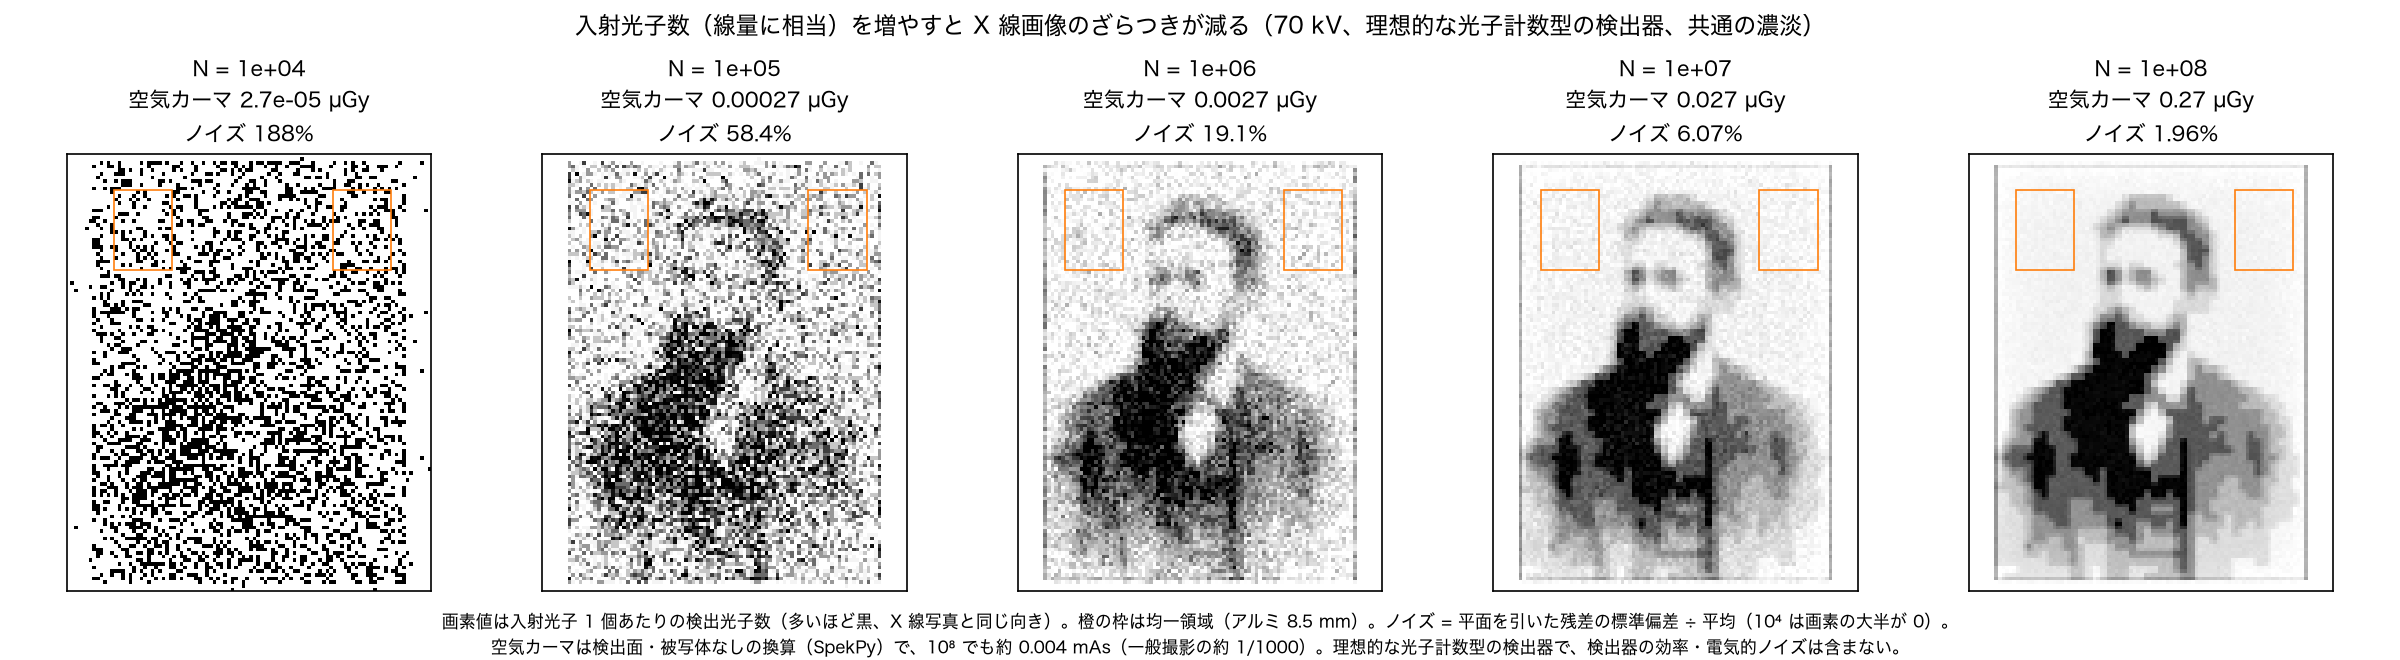
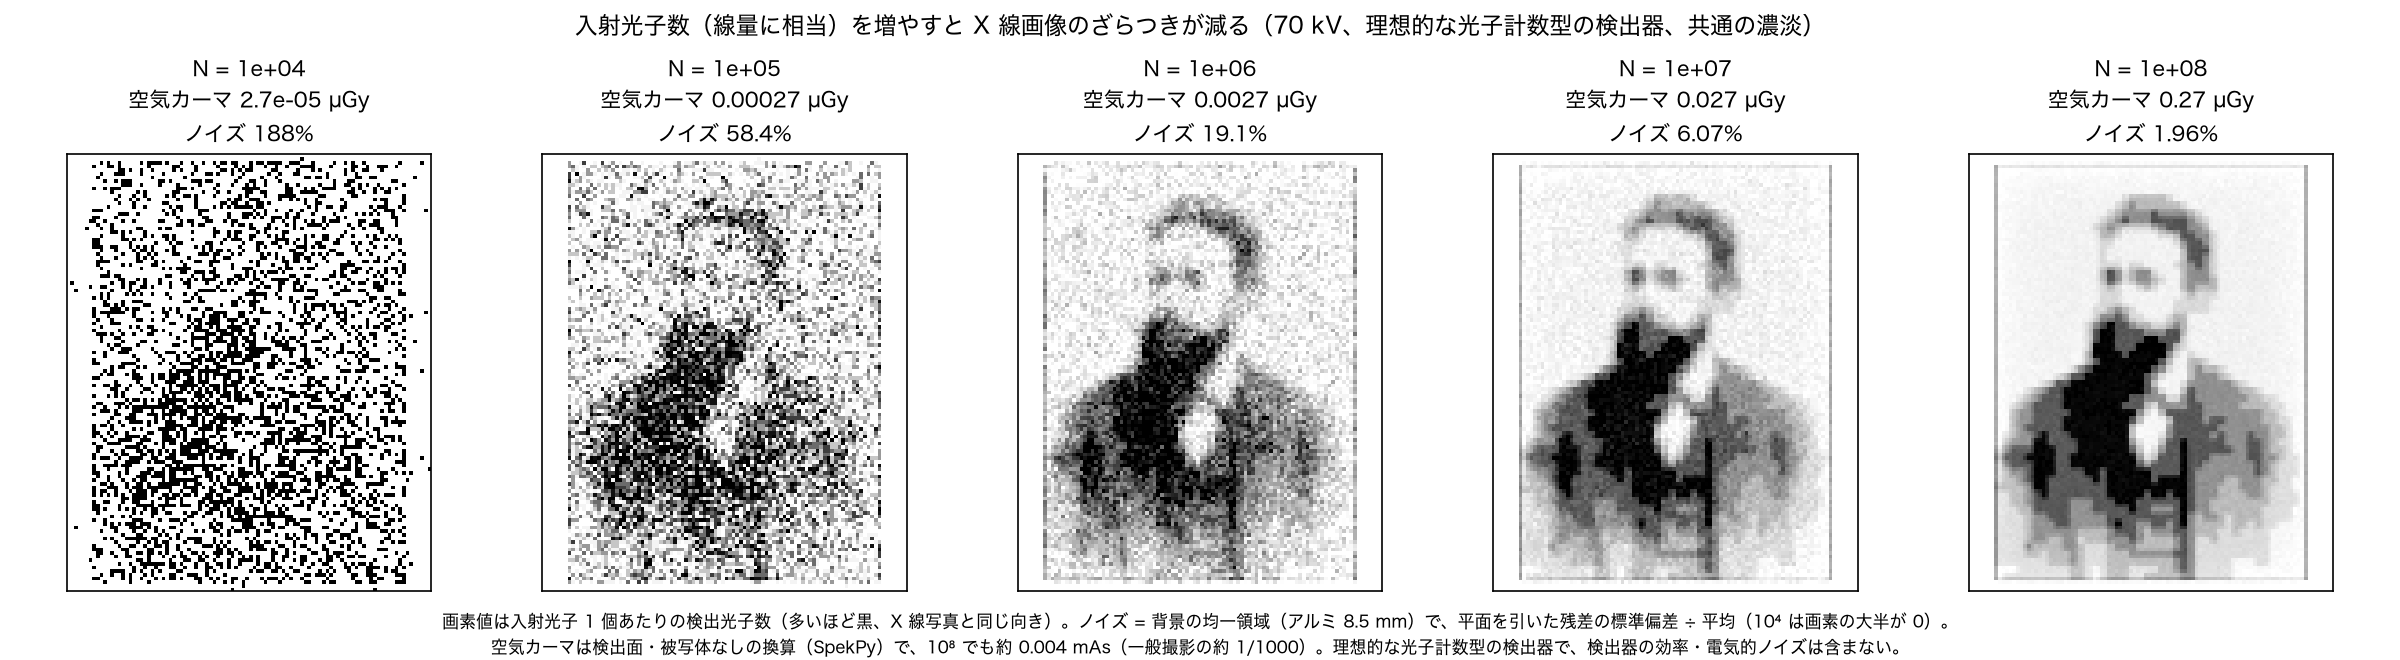
公開ページを第 5・6 版まで反映: 依頼 2 を対話の入口版に差し替え（抄録 9→5 段階、状況の文、依頼 2 の行、図 1）、図 1 は均一領域の橙の枠を消した版（使用者の指示）。Codex の報告書 v5・v6 と依頼文 v6 を追加。教訓（Sites の公開は非対話の codex exec では承認できず、対話型で行う）

diff --git a/docs/jsmp133/request_2_entry/make_frames.py b/docs/jsmp133/request_2_entry/make_frames.py
@@ -70,12 +70,9 @@ def main():
         ax.imshow(img.T, origin='lower', cmap='gray_r', vmin=vmin, vmax=vmax, aspect='equal')
         ax.set_title(f'N = {n:.0e}\n空気カーマ {row["air_kerma_uGy"]:.2g} µGy\nノイズ {100 * row["cv_plane"]:.3g}%', fontsize=10)
         ax.set_xticks([]); ax.set_yticks([])
-        for su, sv in ROIS:
-            ax.add_patch(plt.Rectangle((su.start - .5, sv.start - .5), su.stop - su.start, sv.stop - sv.start,
-                                       fill=False, ec='tab:orange', lw=.8))
     fig.suptitle('入射光子数（線量に相当）を増やすと X 線画像のざらつきが減る（70 kV、理想的な光子計数型の検出器、共通の濃淡）', fontsize=11)
-    fig.text(.5, .01, '画素値は入射光子 1 個あたりの検出光子数（多いほど黒、X 線写真と同じ向き）。橙の枠は均一領域（アルミ 8.5 mm）。'
-             'ノイズ = 平面を引いた残差の標準偏差 ÷ 平均（10⁴ は画素の大半が 0）。\n'
+    fig.text(.5, .01, '画素値は入射光子 1 個あたりの検出光子数（多いほど黒、X 線写真と同じ向き）。'
+             'ノイズ = 背景の均一領域（アルミ 8.5 mm）で、平面を引いた残差の標準偏差 ÷ 平均（10⁴ は画素の大半が 0）。\n'
              '空気カーマは検出面・被写体なしの換算（SpekPy）で、10⁸ でも約 0.004 mAs（一般撮影の約 1/1000）。'
              '理想的な光子計数型の検出器で、検出器の効率・電気的ノイズは含まない。', ha='center', fontsize=8)
     fig.tight_layout(rect=(0, .07, 1, .93))

diff --git a/docs/jsmp133/page_update_report_v5.md b/docs/jsmp133/page_update_report_v5.md
@@ -1,0 +1,87 @@
+# 公開ページ更新報告（第5版）
+
+対象：https://chatcarlo-jsmp133-abstract-review.ayumu-raku.chatgpt.site
+
+## 変更前 → 変更後
+
+### 修正A：抄録案（v3）Methods
+
+**変更前**
+
+X 線画像では 10⁴ から 10⁸ まで 9 段階で変えた。
+
+**変更後**
+
+X 線画像では 10⁴ から 10⁸ まで 5 段階で変えた。
+
+### 修正B：5章の「状況：」の囲み
+
+**変更前**
+
+依頼 1（4 MV）と依頼 3 は、対話の入口から実際に通した記録のある結果です。依頼 2（X 線画像のコマ送り動画）は専用のスクリプトで計算した結果で、対話の入口は通していません。
+
+**変更後**
+
+依頼 1〜3 はいずれも、対話の入口から実際に通した記録のある結果です（依頼 2 の X 線画像は 2026-10-24 に入口から計算し直しました）。
+
+### 修正C：「(2) 性質の異なる依頼」の表・依頼2の内容
+
+**変更前**
+
+X 線撮影で線量を増やすとばらつき（ノイズ）が減ることの再現。肖像のアルミ凹凸板の X 線画像（70 kV）で、入射光子数（＝線量に相当）を 10⁴→10⁸ へ増やすと、画像のばらつき（相対誤差）は 199%→1.9% に減り、光子数の平方根に反比例して減るという理論（傾き −0.5）と一致した（実測 −0.501±0.004）
+
+**変更後**
+
+X 線撮影で線量を増やすとばらつき（ノイズ）が減ることの再現。肖像のアルミ凹凸板の X 線画像（70 kV）で、対話で条件を設定し、入射光子数（＝線量に相当）を 10⁴→10⁸ へ 5 段階で増やした画像を Colab の GPU で計算した。画像のばらつき（均一領域のノイズ）は 188%→1.96% に減り、光子数の平方根に反比例して減るという理論（傾き −0.5）と一致した（実測 −0.495）。検出器は理想的な光子計数型（効率・電気的ノイズは含まない）で、10⁸ 個でも約 0.004 mAs 相当
+
+### 修正D：依頼2の図1の説明文
+
+**変更前**
+
+図 1　依頼 2：入射光子数 N（線量に相当）を 10⁴ から 10⁸ に増やすと、ばらつきが減って像が鮮明になる
+
+**変更後**
+
+図 1　依頼 2：入射光子数 N（線量に相当）を 10⁴ から 10⁸ に増やすと、ばらつきが減って像が鮮明になる（対話の入口から計算した 5 段階、各コマの上はノイズと空気カーマ）
+
+### 修正D：依頼2の図1
+
+旧JPEG埋め込み画像 → `docs/jsmp133/request_2_entry/frames_common_scale.png` を、PNGのままdata URLに埋め込み。添付の画像データは加工していない。画像のalt、既存スタイル、図の配置は変更なし。
+
[1 lines of base64/hex data omitted]
+
+## 変更せずに残した食い違い・注意
+
+- 更新後HTMLの本文に、依頼2についての「専用のスクリプト」「対話の入口は通していません」「9 段階」「コマ送りの動画」は残っていない。「コマ送り」もHTMLソース全文で残存なし。
+- 修正Cの変更前は、既存の太字タグを除いた本文が依頼文と完全一致したため実施。太字の範囲は維持。「状況」欄の「確認済み」は変更なし。
+- 「依頼 2 のねらい：」の囲みは変更なし。添付 `replacement_results_v4.html` は状況文の一致確認に使用しただけで、断片全体の差し替えはしていない。
+- 再開後にリモート最新ソースを取得し、変更前HEADが前回最終版と同じ `badf57dfe6a3a6bafa3cd7643d4cd14b885f8034` であることを確認。A〜Dだけの差分を再検証済み。以下の残存確認は更新HTMLに対するもので、公開ページへの反映はまだ完了していない。
+
+## 検証
+
+- 作業元：Sitesソースリポジトリ `/private/tmp/jsmp133-site-v4`。変更前HEADは `badf57dfe6a3a6bafa3cd7643d4cd14b885f8034`（第4版報告末尾のSites version 10と一致）。開始時の作業ツリーに変更なし。
+- A〜Dの新旧文は依頼文から直接抽出し、句読点・空白・数値を保持。対象の旧文がそれぞれ1か所だけ存在することを確認。
+- すべての変更（図1の画像を含む）を逆適用すると、変更前HTMLを完全に再現。変更範囲は `content/review.html` のみ。
+- 両感想フォーム、送信を含む全script、全iframe（3D表示）、全style、既存SVGは変更前と完全一致。フォームのAPI、DB binding、スキーマ、マイグレーション、認証、保存処理のソースは変更なし。回答の削除・移行・テスト送信は実施していない。
+- PNG埋め込みを復号したバイト列は添付ファイルと完全一致。添付画像の5段階、共通濃淡、ノイズと空気カーマの表示を目視確認。
+- Sites公式 `build-site.mjs` によるビルド成功（/、/api/feedback、/responses）。
+- 公開URLからHTMLを取得して確認したところ、Aの「9 段階」、Bの「専用のスクリプト」、Cの「199%→1.9%」が残り、A〜Dの新しい文は未反映。ブラウザ上の表示確認・公開成功後の確認は未実施。
[1 lines of base64/hex data omitted]
+
+## 公開結果
+
+### 2026-10-24 version 11 公開完了
+
+- 指定の保存済み **Sites version 11** をそのまま公開。ソース変更、再保存、ソースのcommit・pushは実施していない。保存版ID：`appgprj_6ada854f7c388191b7f4ae3247b0071e~appgver_04a518c51b608191a523369ebd02846c`。公開後の再照会でも version 11、commit `db7ac356047f03bb7b6fb9713fee91a3a145b48d` を確認。
+- **公開ID：`appgdep_6adca9d076d4819188cca1a0458e485a`**。公開ツールの結果は `type: publish`、`status: succeeded`、`failure_message: null`。完了時刻は 2026-10-24 21:51:45 JST。
+- 公開URL：<https://chatcarlo-jsmp133-abstract-review.ayumu-raku.chatgpt.site>（変更なし）。公開範囲は `public`、アクセス方針revisionは2で、公開前後のアクセス方針全体が一致。
+- 公開後のHTTP取得とブラウザの表示で、A〜Dの反映を確認。HTTP取得した本文では、本報告の各「変更後」4文が全文一致した。
+  - A：Methods の「10⁴ から 10⁸ まで 5 段階で変えた」を確認。
+  - B：「依頼 1〜3 はいずれも、対話の入口から実際に通した記録のある結果です」と、依頼2を2026-10-24に計算し直した旨を確認。
+  - C：依頼2の行に、対話による条件設定、Colab GPU、5段階、188%→1.96%、実測 −0.495、理想的な光子計数型、約0.004 mAs相当が反映。「確認済み」も維持。
[1 lines of base64/hex data omitted]
+- 公開HTMLに旧「9 段階」「専用のスクリプト」「対話の入口は通していません」「199%→1.9%」「コマ送り」が残っていないことを確認。
[1 lines of base64/hex data omitted]
+- viveMonteリポジトリでは本報告への追記のみ行い、commit・pushは実施していない。
+
+- その後、第6版で図1の画像だけを差し替え、version 12を公開。version 11公開時の確認結果は上記のとおり。最新の公開結果は `docs/jsmp133/page_update_report_v6.md` を参照。

diff --git a/docs/jsmp133/page_update_report_v6.md b/docs/jsmp133/page_update_report_v6.md
@@ -1,0 +1,31 @@
+# 公開ページ更新報告（第6版）
+
+対象：<https://chatcarlo-jsmp133-abstract-review.ayumu-raku.chatgpt.site>
+
+## 変更前 → 変更後
+
+補足資料「依頼2のねらい」の後の図1の画像だけを差し替えた。
+
[2 lines of base64/hex data omitted]
+
+## 検証
+
+- Sites公式ソースヘルパーでリモート最新を取得。開始時HEADはversion 11の `db7ac356047f03bb7b6fb9713fee91a3a145b48d`。開始時・commit後の作業ツリーはクリーン。
+- Sitesソースの変更ファイルは `content/review.html` だけ。対象imgのsrcを1か所だけ置換。新data URLを旧data URLに戻すと、変更前HTMLとバイト単位で完全一致することを確認。
+- 図の説明文・alt・style・配置、ほかの文章・数値・図・3D表示・デザイン・構成・両感想フォーム・送信処理は変更なし。DB binding、API、認証、スキーマ、マイグレーションも変更なし。フォーム送信、保存済み回答の読み書き・削除・移行は実施していない。
+- Sites公式 `build-site.mjs` によるビルド成功（/、/api/feedback、/responses）。公式ヘルパーでSitesソースだけcommit・pushし、同じcommitから公開用アーカイブを作成した。
+- 公開成功後、公開URLからHTTP取得したHTMLの対象img（alt「入射光子数による画像の変化」）を抽出。PNG data URLの復号結果は、指定PNGと206,927バイトすべて一致。上記SHA-256も一致。
+- ブラウザを再読み込みし、橙の矩形がない5段階の図1と、従来の説明文が表示されることを確認。
+- 公開前後のURLとアクセス方針全体が一致。公開範囲 `public`、revision 2を維持。
+
+## 公開結果
+
+- **Sites version 12、公開成功**（`status: succeeded`、`type: publish`、`failure_message: null`）。
+- 保存版ID：`appgprj_6ada854f7c388191b7f4ae3247b0071e~appgver_8343d49e942881919f661ce0fecbbe74`
+- Sitesソースcommit：`9149fa5fc098aa953f8ba6eed874557a4e2638cc`
+- 公開ID：`appgdep_6adcac18860081919ec0fcdfc010e3f6`
+- 公開完了：2026-10-24 22:01:27 JST。
+- URL：<https://chatcarlo-jsmp133-abstract-review.ayumu-raku.chatgpt.site>（変更なし）。
+- 第5版報告の「公開結果」は、version 11公開済み・公開ID・A〜DとPNGの確認結果を示す内容へ整理。第6版公開後の最新状態への参照も追記。
+- viveMonteリポジトリでは報告書2件のみ更新し、commit・pushは実施していない。

diff --git a/docs/jsmp133/page_update_request_v6.md b/docs/jsmp133/page_update_request_v6.md
@@ -1,0 +1,10 @@
+# 公開ページの修正依頼（他の AI 向け・第 6 版、2026-10-24）
+
+対象ページ: https://chatcarlo-jsmp133-abstract-review.ayumu-raku.chatgpt.site
+第 5 版（Sites version 11）が公開済みのページに対する、図 1 の画像だけの差し替えです。
+理由: 使用者の指示で、依頼 2 の並べ図から均一領域を示す橙の矩形を消した（説明文の「橙の枠は…」も図の中から外した）。
+
+## 守ること
+- 変更するのは、補足資料「依頼 2 のねらい」の後の図 1 の画像（第 5 版の修正 D で入れた PNG）だけです。図の説明文を含め、ほかの文章・数値・図・3D 表示・デザイン・構成・感想フォーム（設問・ボタン・送信の仕組み・保存済みの回答・URL・公開範囲）は変えないでください。
+- 新しい画像: `docs/jsmp133/request_2_entry/frames_common_scale.png`（再作図・再圧縮はしない）。
+- 変更後、「変更前→変更後」と、埋め込んだ画像のバイト列が添付と一致することを `docs/jsmp133/page_update_report_v6.md` に報告してください。viveMonte リポジトリでは commit・push しないでください（Sites のソース側の commit・push と保存・公開は前回と同じ手順で行う）。

diff --git a/STATUS.md b/STATUS.md
@@ -1,6 +1,6 @@
 ---
 phase: 開発中
-next: 抄録 v3（docs/jsmp133/abstract_ja_draft.md の ②、1,144 字）を英訳し 500 words 以内か実測する。公開ページへの反映は他の AI の作業待ち（第 4 版 page_update_request.md の後に第 5 版 page_update_request_v5.md: 依頼 2 を対話の入口版に差し替え、図 1 は request_2_entry/frames_common_scale.png）。治療領域は P9b（前立腺シード 58 本の 3 次元形状と横方向の輸送）の計画を書く（P9a 合格、docs/validation/mv/p9a/RESULTS.md）
+next: 抄録 v3（docs/jsmp133/abstract_ja_draft.md の ②、1,144 字）を英訳し 500 words 以内か実測する。公開ページは第 6 版まで反映済み（依頼 2 を対話の入口版に差し替え、page_update_report_v5.md・v6.md）。治療領域は P9b（前立腺シード 58 本の 3 次元形状と横方向の輸送）の計画を書く（P9a 合格、docs/validation/mv/p9a/RESULTS.md）
 blocker: ELSEPAで作った表の配布の方法（表を置くか、生成スクリプトだけか）とリポジトリのLICENSEはユーザーの判断待ち。急がない
 updated: 2026-10-24
 ---
